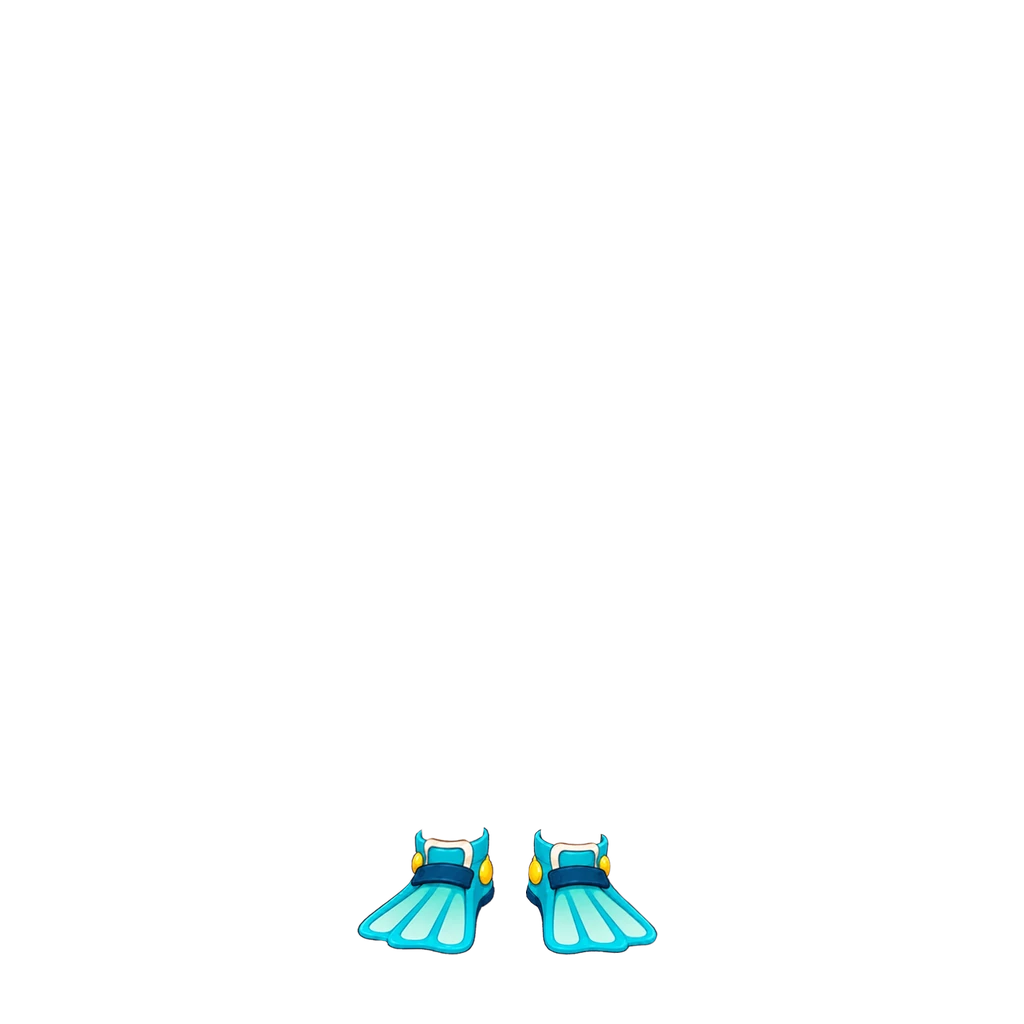
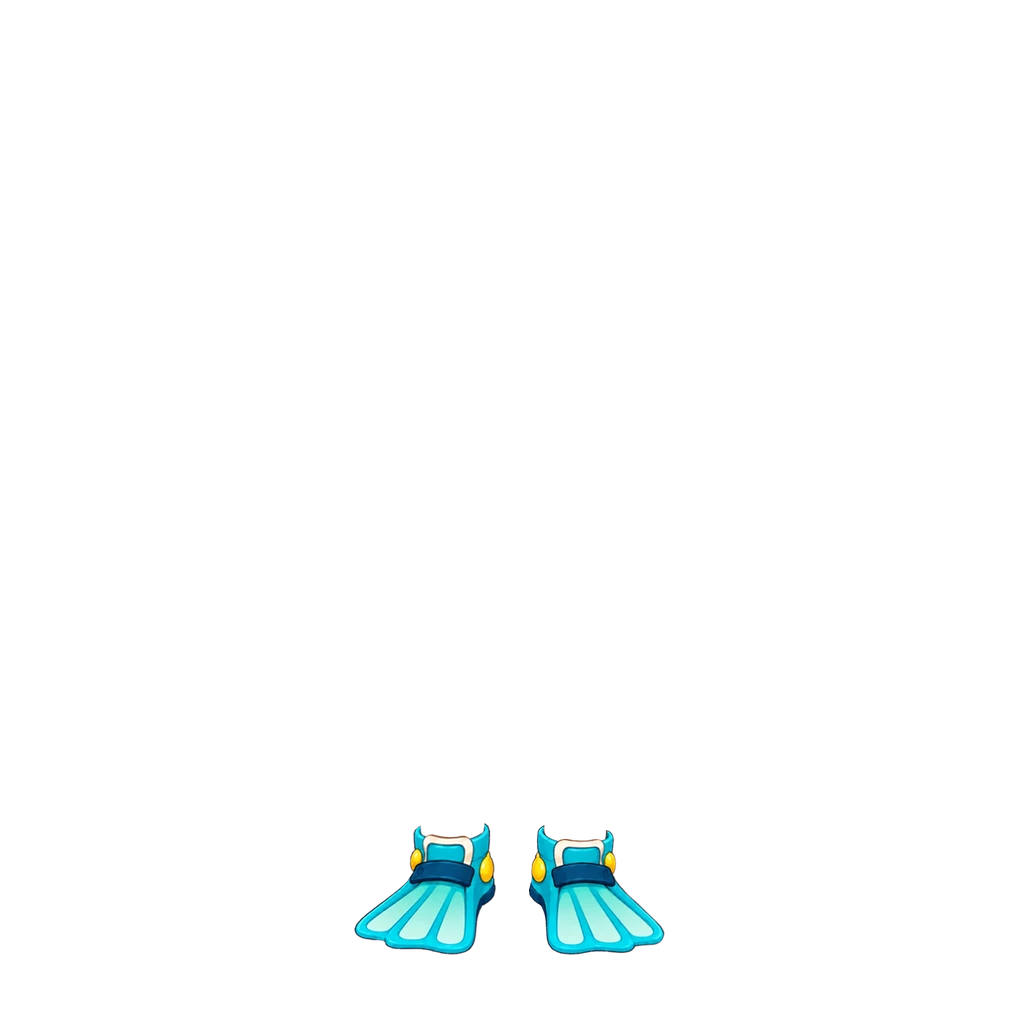
바다 오리발(남아) 3% 크게·오른짝 오른쪽으로 4 (#855)
Claude-Session: https://claude.ai/code/session_018maNuYqDfFyRSe9uKpZhPR

Changed region(s): [[0.3438, 0.8125, 0.6562, 0.9375]]

diff --git a/src/data/avatarEquipment.js b/src/data/avatarEquipment.js
@@ -427,8 +427,9 @@ export const AVATAR_CATALOG = [
   /* 바다 오리발 [2026-10-03] — 남아. 하늘색 오리발(남색 띠·금 버클) 두 짝, 사용자 원화 431×185. 바다 탐험대 옷과 짝.
      두 짝을 따로 잘라(짝마다 위아래 딱 맞게) 원화 발목 입구 가운데(왼짝 x131.5 · 오른짝 x62.5)를 남아 다리 가운데(x450.5 · x574.5)에,
      배율 0.72, 왼짝 +6·오른짝 −6, 밑창 아래끝 y955. 날개가 바깥으로 넓게 퍼져 상자가 넓다. 맨발 0px. 탑재 상자 (362,827,656,955).
-     [2026-10-04] 사용자 조정 — 화면 왼쪽 짝 왼쪽으로 5(+6 → +1)·오른쪽 짝 오른쪽으로 3(−6 → −3). img ?v=2. */
-  { id: "shoes_fins", slot: "shoes", label: "바다 오리발",   emoji: "🤿", price:DECOR_PRICE.common, rarity: "common", theme: "common", forGender: "boy", img: "assets/avatar/shoes/sea-fins-boy.webp?v=2", thumb: "assets/avatar/thumb/shoes_fins.webp" },
+     [2026-10-04] 사용자 조정 — 화면 왼쪽 짝 왼쪽으로 5(+6 → +1)·오른쪽 짝 오른쪽으로 3(−6 → −3). img ?v=2.
+     [2026-10-04] 두 짝 3% 크게(배율 0.7416, 밑창·입구 가운데 고정), 오른쪽 짝 오른쪽으로 4(−3 → +1). img ?v=3. */
+  { id: "shoes_fins", slot: "shoes", label: "바다 오리발",   emoji: "🤿", price:DECOR_PRICE.common, rarity: "common", theme: "common", forGender: "boy", img: "assets/avatar/shoes/sea-fins-boy.webp?v=3", thumb: "assets/avatar/thumb/shoes_fins.webp" },
   /* 들꽃 신발 [2026-10-02] — 여아 신발 첫 아이템. 올리브 끈 부츠 두 짝(흰 양말 목, 주황 끈·밑창) 사용자 원화 264×191.
      두 짝을 따로 잘라 각각 다리 위에 얹었다 — 원화 발목 가운데(왼짝 x61 · 오른짝 x51.5)를 여아 다리 가운데(x455 · x556)에,
      밑창 아래끝을 y942(발바닥 y940 바로 아래)에 맞췄다. 배율 0.64 — 발등·발가락이 다 가려지고(맨발 0px) 부츠 목이 종아리 아래(y820)에서 끝난다.

diff --git a/art-src/README.md b/art-src/README.md
@@ -594,4 +594,4 @@ bbox로 여백만 잘라내고 배포본은 높이 480px로 축소했다(전부 
 | jungle-boots-leaf-boy-src.webp | **정글 부츠 원화 남아 (사용자 원화 2026-10-03)** — 339×204 투명 배경, 초록 끈 부츠(나뭇잎 무늬) + 니트 양말 두 짝(shoes_jungle_leaf; 처음 정글 부츠였던 shoes_jungle 은 라이트 부츠로 이름만 바뀜). 두 짝(x0~137 · x206~337)을 따로 잘라 배율 0.72, 양말 가운데를 남아 다리 가운데(x450.5·x574.5)에 두고 왼짝 +4·오른짝 −2, 밑창 아래끝 y952. 맨발 2px. 탑재 상자 (395,805,628,952). **[2026-10-03 조정]** 이름 도토리 부츠로, 두 짝 2% 크게(0.7344), 상자 (394,802,629,952) · img ?v=2. 다시 2% 더 크게(0.7491), 상자 (393,799,631,952) · img ?v=3. 화면 왼쪽 짝만 왼쪽으로 5, 상자 (388,799,631,952) · img ?v=4. 상점 그림은 원화를 세로 160px 로 | avatar/shoes/jungle-boots-leaf-boy.webp · thumb/shoes_jungle_leaf.webp |
 | lightning-sneakers-boy-src.webp | **번개 운동화 원화 남아 (사용자 원화 2026-10-03)** — 369×211 투명 배경, 청록 하이탑(형광 번개 무늬) + 흰 양말 두 짝. 두 짝(x0~154 · x211~368)을 따로 잘라 배율 0.70, 양말 가운데를 남아 다리 가운데(x450.5·x574.5)에 두고 왼짝 +4·오른짝 −4, 밑창 아래끝 y952. 맨발 13px. 탑재 상자 (389,804,639,952). **[2026-10-03 조정]** 양말만 3% 크게(원화에서 양말만 떼어 1.03배 후 신발 밑에 끼움), 상자 (389,801,639,952) · img ?v=2. 이어서 양말 10% 더(원화 대비 1.133배), 상자 (389,798,639,952) · img ?v=3. 상점 그림은 원화를 세로 160px 로 | avatar/shoes/lightning-sneakers-boy.webp · thumb/shoes_lightning.webp |
 | summer-sandals-boy-src.webp | **썸머 샌들 원화 남아 (사용자 원화 2026-10-03)** — 352×148 투명 배경, 주황 띠 샌들(청록 밑창), 발까지 그려짐. 두 짝(왼 x0~144·y8~147, 오른 x205~350·y1~141)을 따로 잘라 배율 0.74, 뒤끈 가운데를 남아 다리 가운데(x450.5·x574.5)에 두고 왼짝 +2·오른짝 −2, 밑창 아래끝 y946 — 아바타 맨발을 샌들 속 발로 다 덮음(맨발 0px). 탑재 상자 (386,842,638,946). 상점 그림은 원화를 세로 160px 로 | avatar/shoes/summer-sandals-boy.webp · thumb/shoes_sandal.webp |
-| sea-fins-boy-src.webp | **바다 오리발 원화 남아 (사용자 원화 2026-10-03)** — 431×185 투명 배경, 하늘색 오리발(남색 띠·금 버클) 두 짝. 두 짝(왼 x1~191·y7~184, 오른 x247~429·y1~175)을 따로 잘라 배율 0.72, 발목 입구 가운데를 남아 다리 가운데(x450.5·x574.5)에 두고 왼짝 +6·오른짝 −6, 밑창 아래끝 y955. 맨발 0px. 탑재 상자 (362,827,656,955). **[2026-10-04 조정]** 왼짝 왼쪽 5·오른짝 오른쪽 3 · img ?v=2. 상점 그림은 원화를 세로 160px 로 | avatar/shoes/sea-fins-boy.webp · thumb/shoes_fins.webp |
+| sea-fins-boy-src.webp | **바다 오리발 원화 남아 (사용자 원화 2026-10-03)** — 431×185 투명 배경, 하늘색 오리발(남색 띠·금 버클) 두 짝. 두 짝(왼 x1~191·y7~184, 오른 x247~429·y1~175)을 따로 잘라 배율 0.72, 발목 입구 가운데를 남아 다리 가운데(x450.5·x574.5)에 두고 왼짝 +6·오른짝 −6, 밑창 아래끝 y955. 맨발 0px. 탑재 상자 (362,827,656,955). **[2026-10-04 조정]** 왼짝 왼쪽 5·오른짝 오른쪽 3 · img ?v=2. 이어서 3% 크게(0.7416)·오른짝 오른쪽 4 · img ?v=3. 상점 그림은 원화를 세로 160px 로 | avatar/shoes/sea-fins-boy.webp · thumb/shoes_fins.webp |
